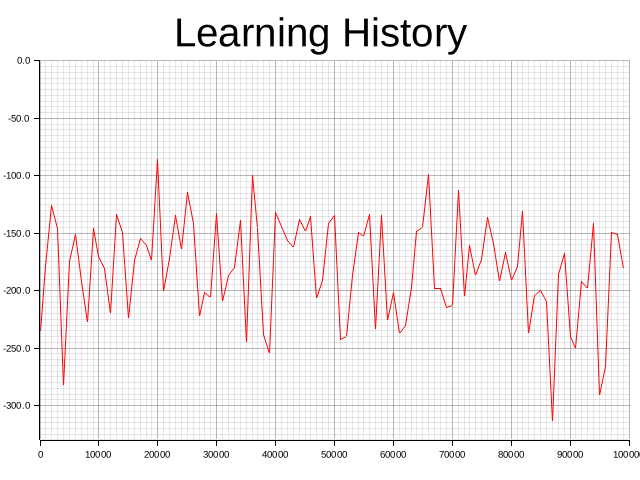
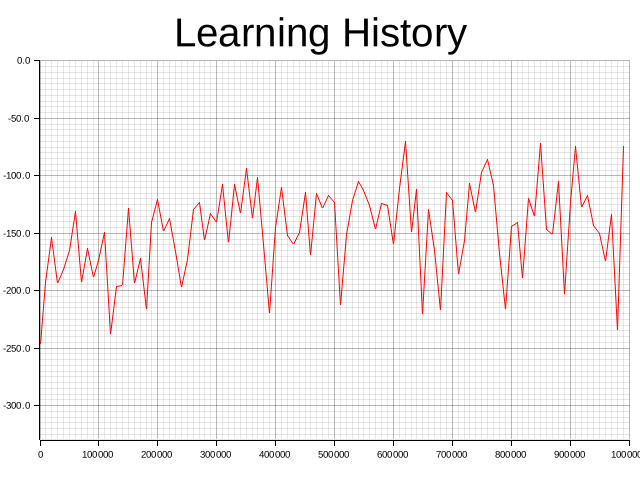
1M traces

diff --git a/rl_demo/src/main.rs b/rl_demo/src/main.rs
@@ -22,14 +22,16 @@ fn main() {
     let dep_graph = model::make_8react_graph(transitions.clone());
     println!("Dependency Graph: {:?}", dep_graph);
 
-    let mut file = OpenOptions::new()
-        .create(true)
-        .write(true)
-        .truncate(true)
-        .open("traces.txt")
-        .unwrap_or_else(|e| panic!("Failed to open file: {}", e));
-    let current_time = chrono::Local::now();
-    writeln!(file, "EXPERIMENTS AT {}", current_time).unwrap();
+    if num_traces < 100000 {
+        let mut file = OpenOptions::new()
+            .create(true)
+            .write(true)
+            .truncate(true)
+            .open("traces.txt")
+            .unwrap_or_else(|e| panic!("Failed to open file: {}", e));
+        let current_time = chrono::Local::now();
+        writeln!(file, "EXPERIMENTS AT {}", current_time).unwrap();
+    }
 
     traces::make_traces(transitions.clone(), num_traces.try_into().unwrap());
 }

diff --git a/rl_demo/src/traces.rs b/rl_demo/src/traces.rs
@@ -225,8 +225,10 @@ pub fn make_traces(transitions: Vec<Transition>, traces: u64) {
             .append(true)
             .open("traces.txt")
             .unwrap();
-        writeln!(file, "{}", trace.0.iter().map(|t| t.name.as_str()).collect::<Vec<_>>().join(" ")).unwrap();
-        if traces < 1000 || i % if traces < 1000 {100} else {500} == 0 {
+        if traces < 100000 {
+            writeln!(file, "{}", trace.0.iter().map(|t| t.name.as_str()).collect::<Vec<_>>().join(" ")).unwrap();
+        }
+        if traces < 1000 || i % if traces < 10000 {100} else {1000} == 0 {
             println!("Trace {:4} Probability: {:0.4e}", i, trace.1);
         }
         adjust_rewards(&mut learning, &trace.0, trace.1);

diff --git a/rl_demo/README.md b/rl_demo/README.md
@@ -1,0 +1,30 @@
+# PRACTICE with RL Tools
+
+This README temporarily documents the procedure for repeating experiments from the report "Kickstarting PRACTICE with a Suite of Analysis Tools for Stochastic Vector Addition Systems" by Landon Taylor.
+
+This feature has not yet been integrated into the PRACTICE tool due to compatibility issues. Full integration is planned after this algorithm is more fleshed out.
+
+## Prerequisites
+
+The following are required for correct execution:
+
+0. Suitable operating system. PRACTICE is designed to be cross-compatible, but current features have been designed and tested on Ubuntu 24.
+1. Correct installation of Rust:
+    ```
+    curl --proto '=https' --tlsv1.2 -sSf https://sh.rustup.rs | sh
+    ```
+
+Test your Rust installation with `rustc --version`.
+
+## The Tool
+
+Use the following commands to obtain the tool with RL features:
+```
+git clone https://github.com/formal-verification-research/practice.git
+cd rl_demo
+cargo run 100 > benchmark.txt
+```
+
+Replace `100` with your desired number of traces. The algorithm does best with very high numbers (e.g., 1000000), but system and time limitations may constrain.
+Then, check `benchmark.txt`, `traces.txt`, and `learning_history.png` for results. Results should be different at every run.
+
